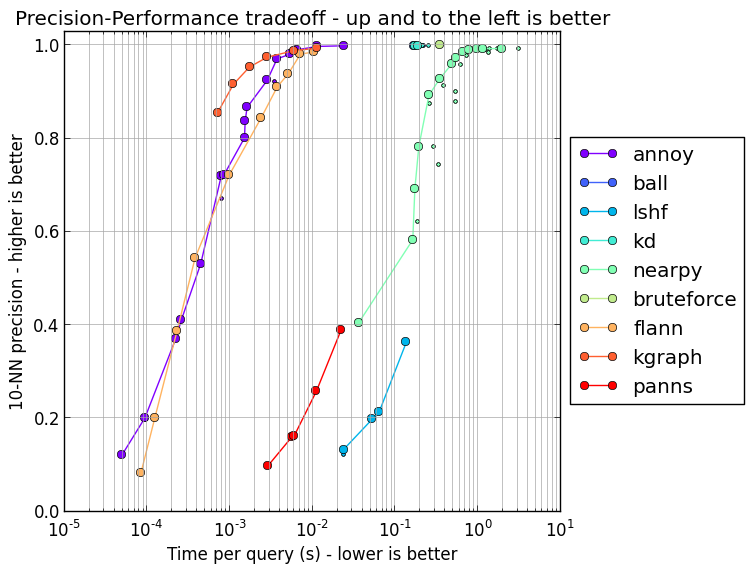
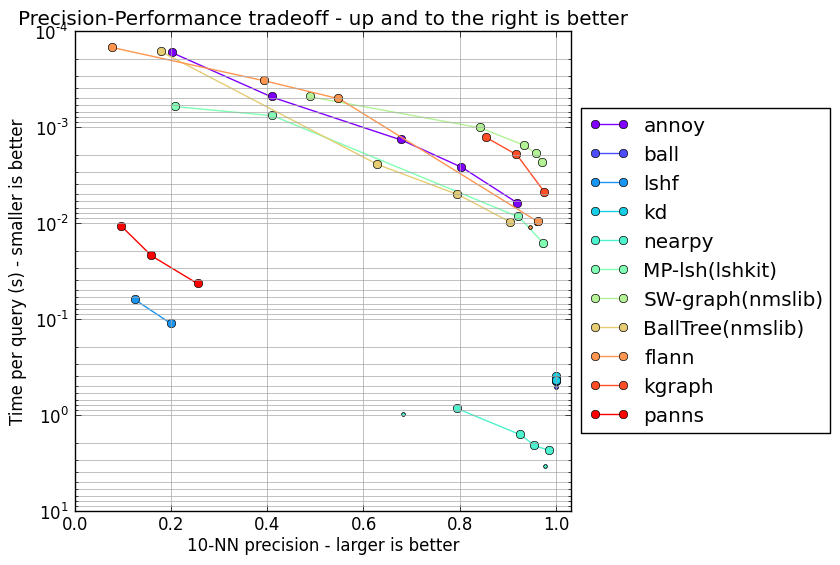
more results and flipped x/y axes

Changed region(s): [[0.0, 0.0, 1.0, 0.9929]]

diff --git a/README.rst b/README.rst
@@ -62,7 +62,7 @@ This is very much a work in progress... more results coming later!
 .. figure:: https://raw.github.com/erikbern/ann-benchmarks/master/results/glove.png
    :align: center
 
-1M SIFT features (128 dimensions), Euclidean distance, also run on a c4.4xlarge:
+1M SIFT features (128 dimensions), Euclidean distance, run on an m1.large:
 
 .. figure:: https://raw.github.com/erikbern/ann-benchmarks/master/results/sift.png
    :align: center
